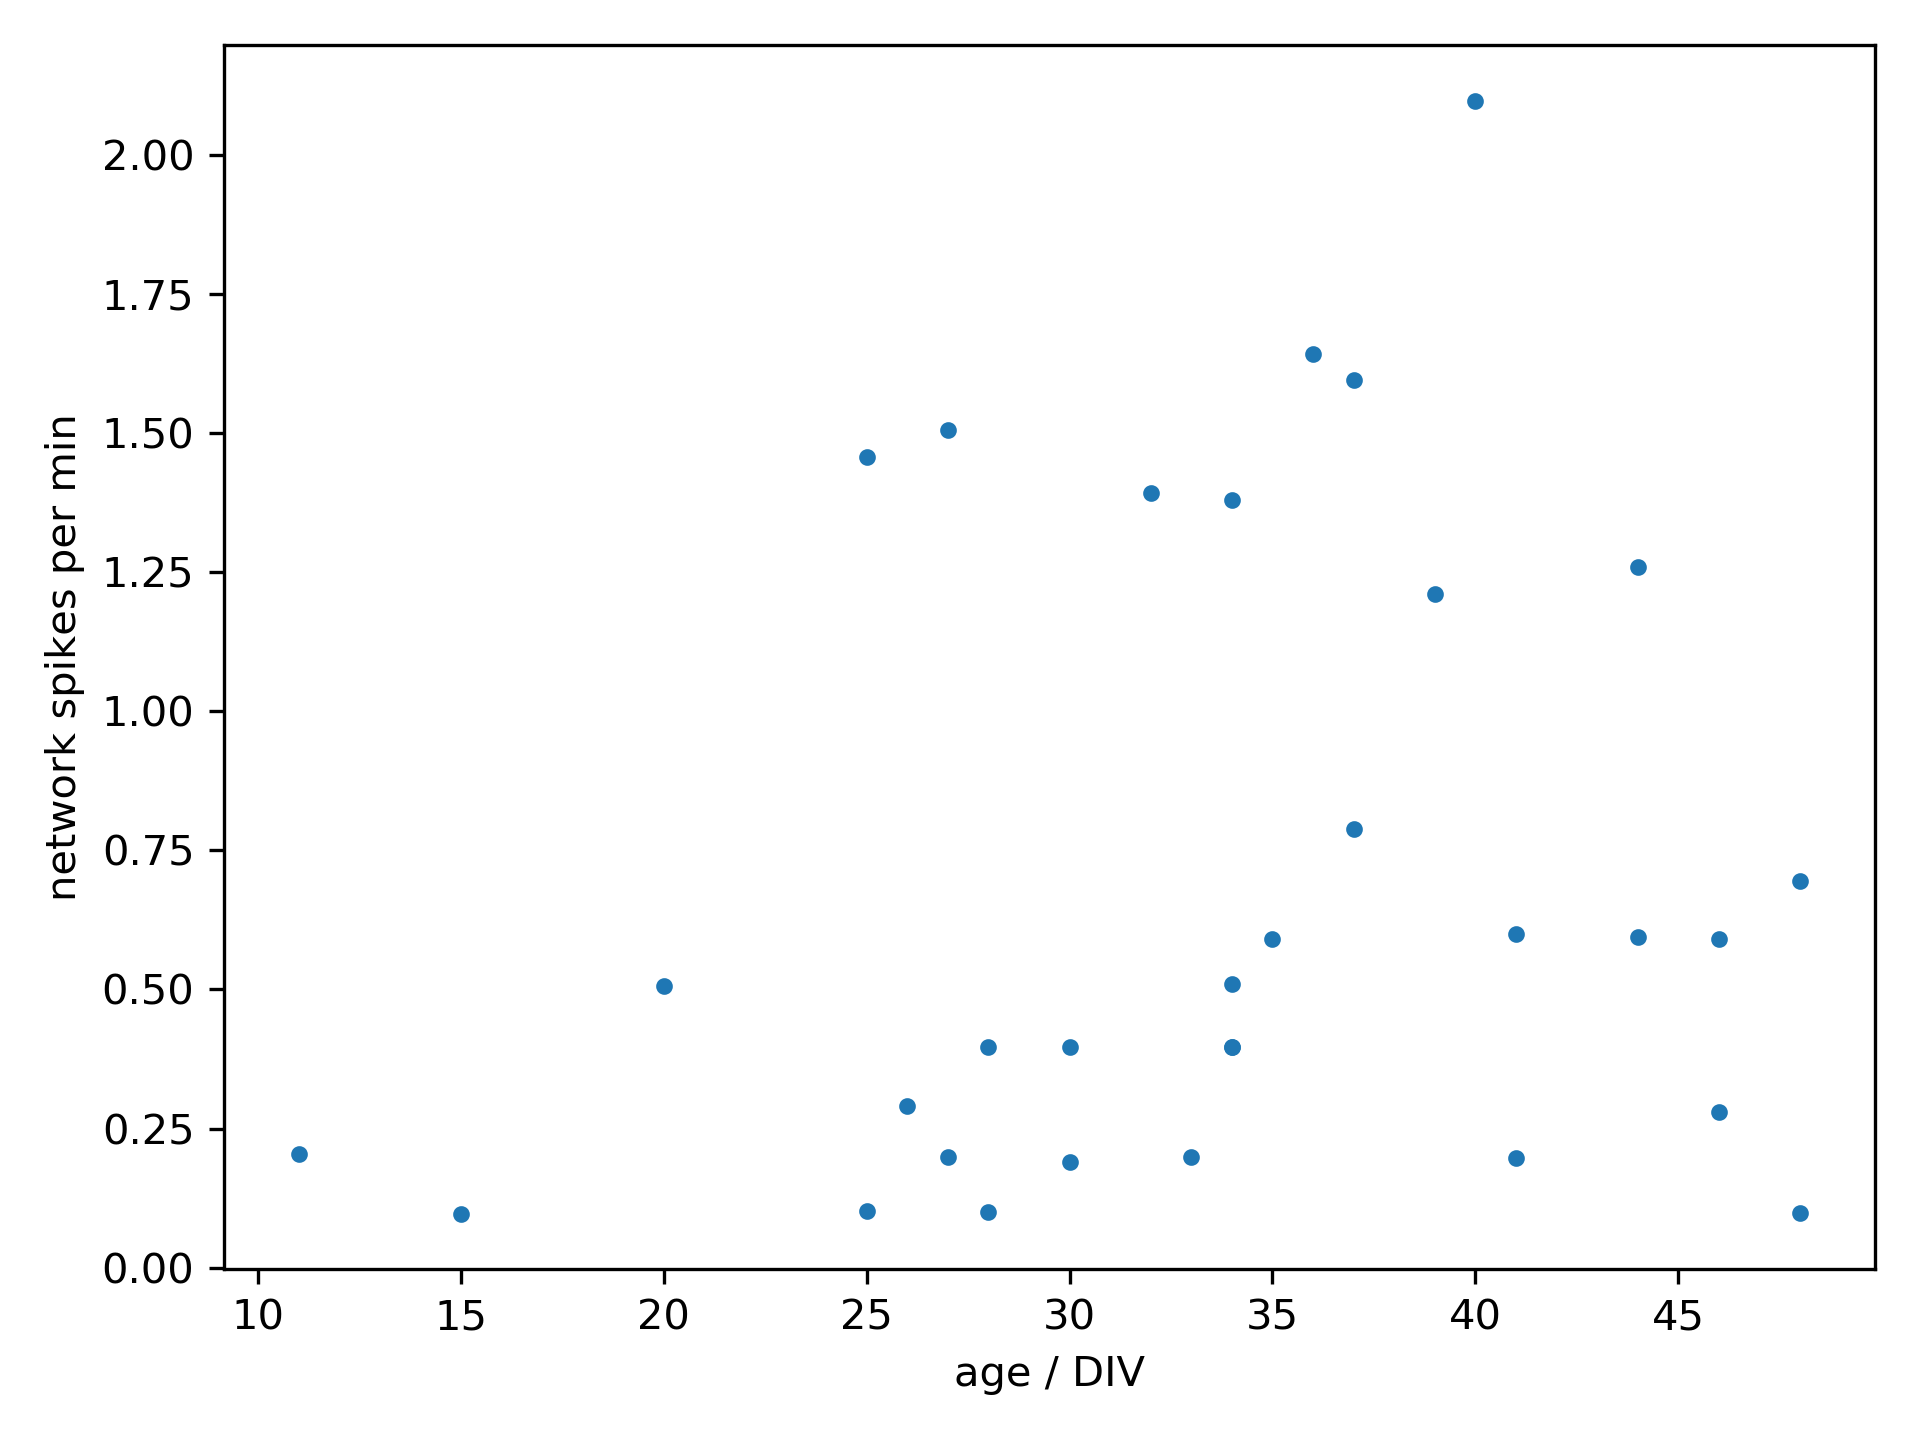
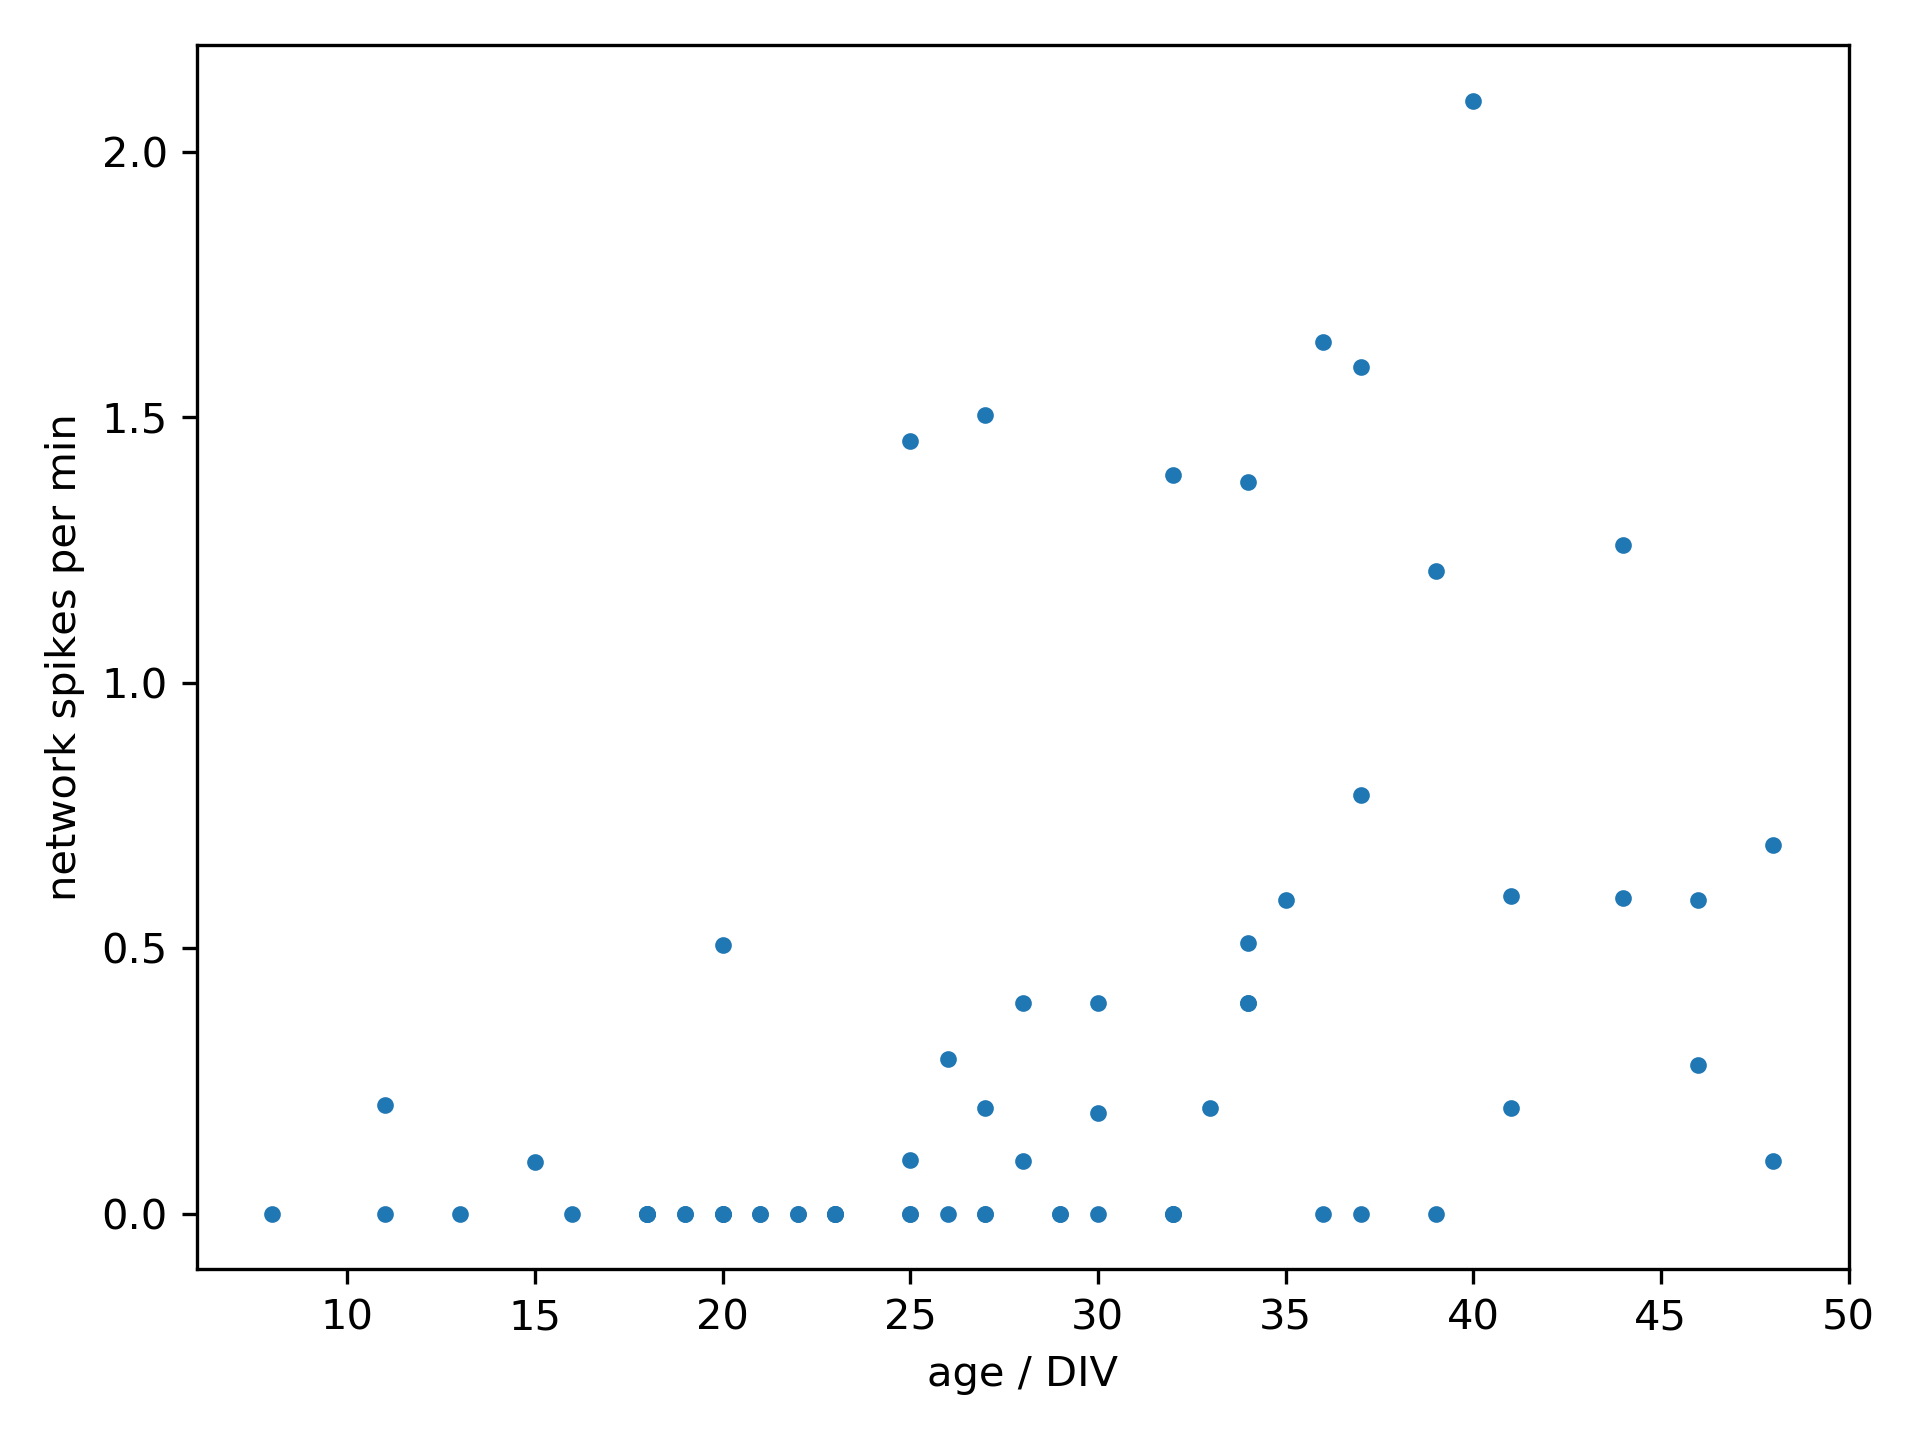
Do not ignore recordings with no network spikes in network spike rate plot

diff --git a/scripts/analyse_network_spikes.py b/scripts/analyse_network_spikes.py
@@ -80,24 +80,23 @@ with PdfPages(ACTIVITY_FIGURE_PATH) as pdf_act, PdfPages(CUTOUTS_FIGURE_PATH) as
                                              labels,
                                              meta=meta)
                 ns.detect_spikes(THRESH)
-                if ns.spike_cutouts:
-                    age_rate_l.append(ns.meta["age"])
-                    N = len(ns.spike_timestamps)
-                    rate = N / ns.t_stop.rescale(qt.min)
-                    rate_l.append(rate)
-                    for j in range(len(ns.spike_cutouts)):
-                        plt.plot(ns.spike_cutouts[j])
-                        plt.title(ns.meta["replicate"] +
-                                  " D" + str(ns.meta["age"]))
-                        plt.xlabel("bin\ntimestamp=" +
-                                   str(round(ns.spike_timestamps[j], 1)))
-                        plt.ylabel("#spikes")
-                        plt.tight_layout()
-                        pdf_cut.savefig()
-                        plt.close()
-                        age_amp_l.append(ns.meta["age"])
-                        amp = max(ns.spike_cutouts[j])
-                        amp_l.append(amp)
+                age_rate_l.append(ns.meta["age"])
+                N = len(ns.spike_timestamps)
+                rate = N / ns.t_stop.rescale(qt.min)
+                rate_l.append(rate)
+                for j in range(len(ns.spike_cutouts)):
+                    plt.plot(ns.spike_cutouts[j])
+                    plt.title(ns.meta["replicate"] +
+                              " D" + str(ns.meta["age"]))
+                    plt.xlabel("bin\ntimestamp=" +
+                               str(round(ns.spike_timestamps[j], 1)))
+                    plt.ylabel("#spikes")
+                    plt.tight_layout()
+                    pdf_cut.savefig()
+                    plt.close()
+                    age_amp_l.append(ns.meta["age"])
+                    amp = max(ns.spike_cutouts[j])
+                    amp_l.append(amp)
 
                 # plot
                 figure, axes = plt.subplots()
